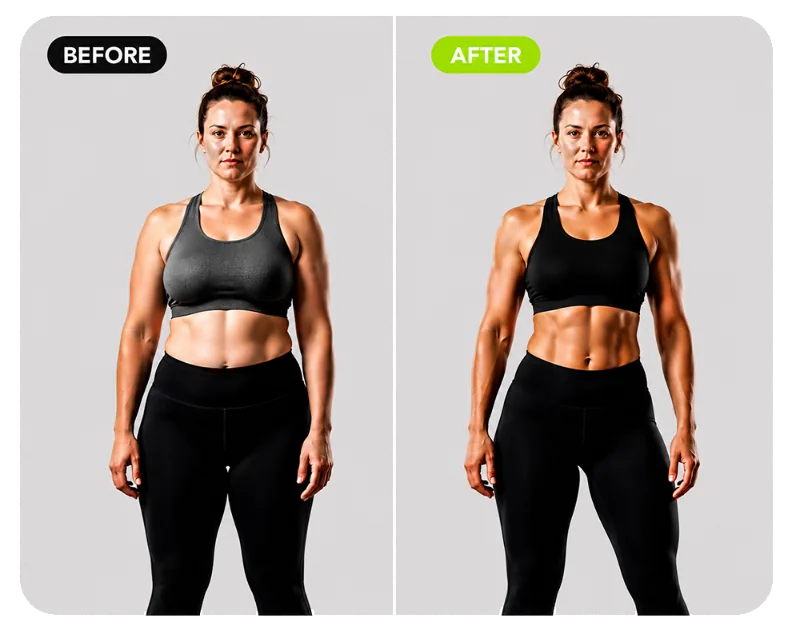
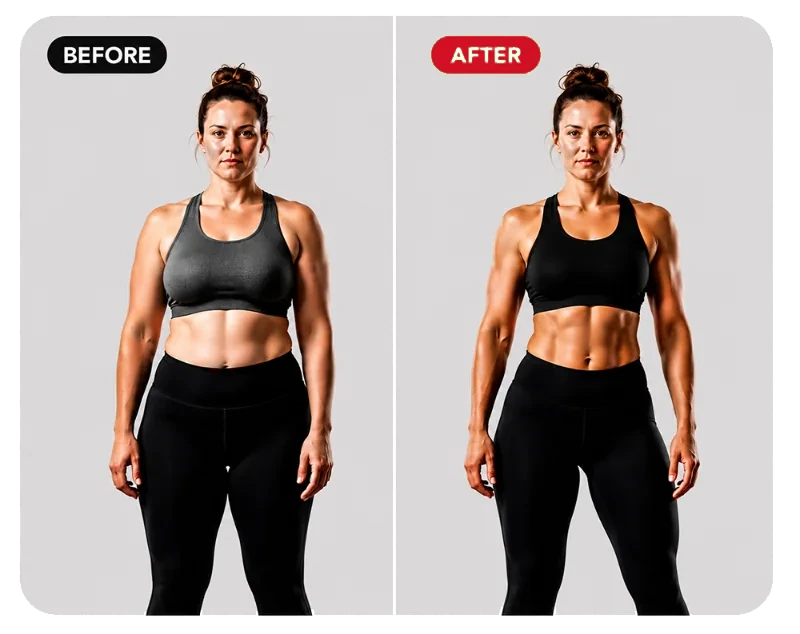
Recolour the lime AFTER badge on the wellness before/after
A final green sweep of code, rendered styles (every page, desktop and
mobile, including hover states, pseudo-elements and hidden overlays) and
all 91 images found one remaining template green: the "AFTER" badge in
the homepage Wellness Programs before/after. Only the badge's pixels are
recoloured, to DF360 red.

The other green left in images is real Defined Fitness club photography
(turf, weight plates) and plants, and is not brand colour.

Changed region(s): [[0.5312, 0.03, 0.6875, 0.1199]]

diff --git a/index.html b/index.html
@@ -513,7 +513,7 @@ height="0" width="0" style="display:none;visibility:hidden"></iframe></noscript>
             <div style="padding:26px 22px 26px 22px;border-left:2px solid #242424;"><img src="img/product/womens-hormones.webp?v=cc66629c" alt="Apex MD women's hormone therapy" style="display:block;height:170px;width:auto;max-width:100%;object-fit:contain;margin-bottom:18px" loading="lazy" decoding="async" width="900" height="769"><span style="display:block;width:28px;height:4px;background:#DE192C;margin-bottom:14px"></span><span style="display:block;font-size:22px;font-weight:800;letter-spacing:-.02em;line-height:1.15">Hormone Therapy</span><a href="hormones.html" style="display:block;width:max-content;margin-top:12px;font-size:14px;font-weight:700;color:#DE192C;border-bottom:1px solid #8F0E19">See Pricing</a></div>
             <div style="padding:26px 22px 26px 22px;border-left:2px solid #242424;"><img src="img/hp/goal-health-corner.webp?v=610b6ffc" alt="Apex MD advanced diagnostics vial, the member health analysis and Dr. Jim Bowen" style="display:block;height:170px;width:auto;max-width:100%;object-fit:contain;margin-bottom:18px" loading="lazy" decoding="async" width="717" height="560"><span style="display:block;width:28px;height:4px;background:#DE192C;margin-bottom:14px"></span><span style="display:block;font-size:22px;font-weight:800;letter-spacing:-.02em;line-height:1.15">Lab Diagnostics &amp; Physician Consult</span>
               <div style="display:flex;flex-direction:column;align-items:flex-start;gap:8px;margin-top:14px"><span style="font-size:14px;font-weight:600;color:#DE192C">Health Optimization</span><div style="display:flex;flex-wrap:wrap;align-items:baseline;gap:8px 14px"><a href="bloodwork.html" style="font-size:14px;font-weight:600;width:max-content;color:#DE192C;border-bottom:1px solid #8F0E19">Male</a><a href="bloodwork.html" style="font-size:14px;font-weight:600;width:max-content;color:#DE192C;border-bottom:1px solid #8F0E19">Female</a></div><a href="bloodwork.html" style="font-size:14px;font-weight:600;width:max-content;color:#DE192C;border-bottom:1px solid #8F0E19">Genetic Testing</a></div></div>
-            <div style="padding:26px 22px 26px 22px;border-left:2px solid #242424;"><img src="img/hp/before-after-blue.webp?v=3b7b2558" alt="Member before and after a physician-guided wellness program" style="display:block;height:170px;width:auto;max-width:100%;object-fit:contain;margin-bottom:18px" loading="lazy" decoding="async" width="800" height="634"><span style="display:block;width:28px;height:4px;background:#DE192C;margin-bottom:14px"></span><span style="display:block;font-size:22px;font-weight:800;letter-spacing:-.02em;line-height:1.15">Wellness Programs</span>
+            <div style="padding:26px 22px 26px 22px;border-left:2px solid #242424;"><img src="img/hp/before-after-blue.webp?v=ac71ba7e" alt="Member before and after a physician-guided wellness program" style="display:block;height:170px;width:auto;max-width:100%;object-fit:contain;margin-bottom:18px" loading="lazy" decoding="async" width="800" height="634"><span style="display:block;width:28px;height:4px;background:#DE192C;margin-bottom:14px"></span><span style="display:block;font-size:22px;font-weight:800;letter-spacing:-.02em;line-height:1.15">Wellness Programs</span>
               <div style="display:flex;flex-wrap:wrap;gap:8px 14px;margin-top:14px"><a href="weight-loss.html" style="font-size:14px;font-weight:600;color:#DE192C;border-bottom:1px solid #8F0E19">Weight Loss</a><a href="testosterone.html" style="font-size:14px;font-weight:600;color:#DE192C;border-bottom:1px solid #8F0E19">Men's Health</a><a href="hormones.html" style="font-size:14px;font-weight:600;color:#DE192C;border-bottom:1px solid #8F0E19">Women's Health</a><a href="sermorelin.html" style="font-size:14px;font-weight:600;color:#DE192C;border-bottom:1px solid #8F0E19">Bone Growth</a></div></div>
           </div>
         </div>
@@ -1003,7 +1003,7 @@ height="0" width="0" style="display:none;visibility:hidden"></iframe></noscript>
             <div style="padding:15px 0;border-bottom:1px solid #242424"><img src="img/product/womens-hormones.webp?v=cc66629c" alt="Apex MD women's hormone therapy" style="display:block;height:130px;width:auto;max-width:100%;object-fit:contain;margin:0 0 12px 32px" loading="lazy" decoding="async" width="900" height="769"><div style="display:flex;align-items:center;gap:12px"><span style="flex:none;width:20px;height:3px;background:#DE192C"></span><span style="font-size:18px;font-weight:800;letter-spacing:-.02em">Hormone Therapy</span></div><a href="hormones.html" style="display:block;width:max-content;margin:10px 0 0 32px;font-size:14px;font-weight:700;color:#DE192C;border-bottom:1px solid #8F0E19">See Pricing</a></div>
             <div style="padding:15px 0;border-bottom:1px solid #242424"><img src="img/hp/goal-health-corner.webp?v=610b6ffc" alt="Apex MD advanced diagnostics vial, the member health analysis and Dr. Jim Bowen" style="display:block;height:130px;width:auto;max-width:100%;object-fit:contain;margin:0 0 12px 32px" loading="lazy" decoding="async" width="717" height="560"><div style="display:flex;align-items:center;gap:12px"><span style="flex:none;width:20px;height:3px;background:#DE192C"></span><span style="font-size:18px;font-weight:800;letter-spacing:-.02em">Lab Diagnostics &amp; Physician Consult</span></div>
               <div style="display:flex;flex-direction:column;align-items:flex-start;gap:8px;margin:10px 0 0 32px"><span style="font-size:14px;font-weight:600;color:#DE192C">Health Optimization</span><div style="display:flex;flex-wrap:wrap;align-items:baseline;gap:8px 16px"><a href="bloodwork.html" style="font-size:14px;font-weight:600;color:#DE192C;border-bottom:1px solid #8F0E19">Male</a><a href="bloodwork.html" style="font-size:14px;font-weight:600;color:#DE192C;border-bottom:1px solid #8F0E19">Female</a></div><a href="bloodwork.html" style="font-size:14px;font-weight:600;color:#DE192C;border-bottom:1px solid #8F0E19">Genetic Testing</a></div></div>
-            <div style="padding:15px 0;border-bottom:1px solid #242424"><img src="img/hp/before-after-blue.webp?v=3b7b2558" alt="Member before and after a physician-guided wellness program" style="display:block;height:130px;width:auto;max-width:100%;object-fit:contain;margin:0 0 12px 32px" loading="lazy" decoding="async" width="800" height="634"><div style="display:flex;align-items:center;gap:12px"><span style="flex:none;width:20px;height:3px;background:#DE192C"></span><span style="font-size:18px;font-weight:800;letter-spacing:-.02em">Wellness Programs</span></div>
+            <div style="padding:15px 0;border-bottom:1px solid #242424"><img src="img/hp/before-after-blue.webp?v=ac71ba7e" alt="Member before and after a physician-guided wellness program" style="display:block;height:130px;width:auto;max-width:100%;object-fit:contain;margin:0 0 12px 32px" loading="lazy" decoding="async" width="800" height="634"><div style="display:flex;align-items:center;gap:12px"><span style="flex:none;width:20px;height:3px;background:#DE192C"></span><span style="font-size:18px;font-weight:800;letter-spacing:-.02em">Wellness Programs</span></div>
               <div style="display:flex;flex-wrap:wrap;gap:8px 16px;margin:10px 0 0 32px"><a href="weight-loss.html" style="font-size:14px;font-weight:600;color:#DE192C;border-bottom:1px solid #8F0E19">Weight Loss</a><a href="testosterone.html" style="font-size:14px;font-weight:600;color:#DE192C;border-bottom:1px solid #8F0E19">Men's Health</a><a href="hormones.html" style="font-size:14px;font-weight:600;color:#DE192C;border-bottom:1px solid #8F0E19">Women's Health</a><a href="sermorelin.html" style="font-size:14px;font-weight:600;color:#DE192C;border-bottom:1px solid #8F0E19">Bone Growth</a></div></div>
           </div>
         </div>
